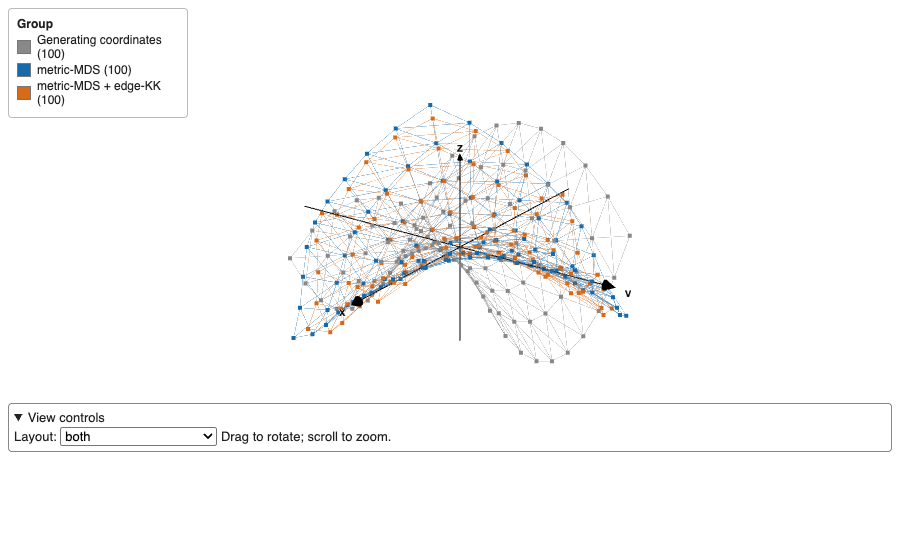
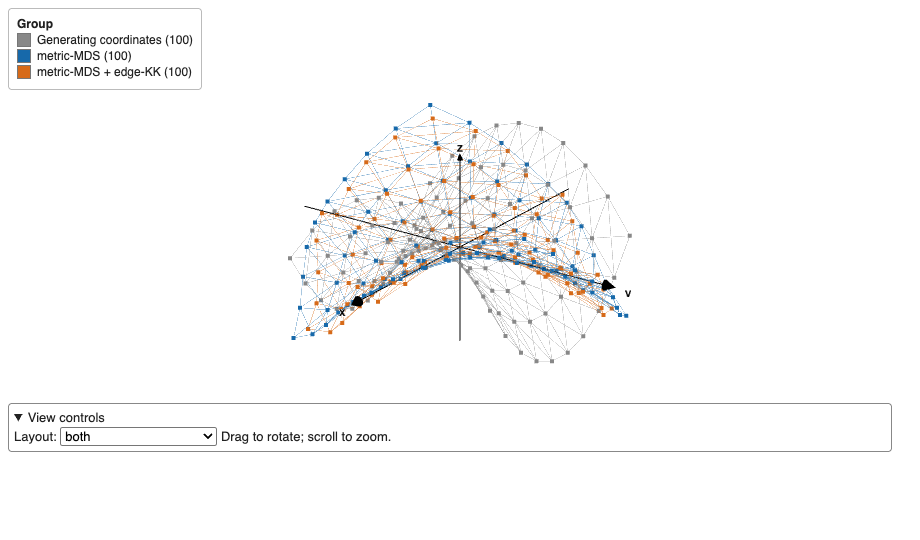
Fit vignette legends to labels and verify Procrustes alignment

Changed region(s): [[0.0, 0.0593, 0.213, 0.2074], [0.1826, 0.0593, 0.213, 0.0889]]

diff --git a/NEWS.md b/NEWS.md
@@ -21,6 +21,9 @@
 
 ## Documentation
 
+* Vignette legends now expand to fit their entries. Clarified the gallery
+  Procrustes alignment and verified it with known transformations and the
+  saved saddle layouts.
 * Simplified the graph gallery to one interactive view per graph, with a
   layout selector for metric-MDS, metric-MDS + edge-KK, or both. Removed
   duplicate static panels and the legend-table disclosure from vignette views.
